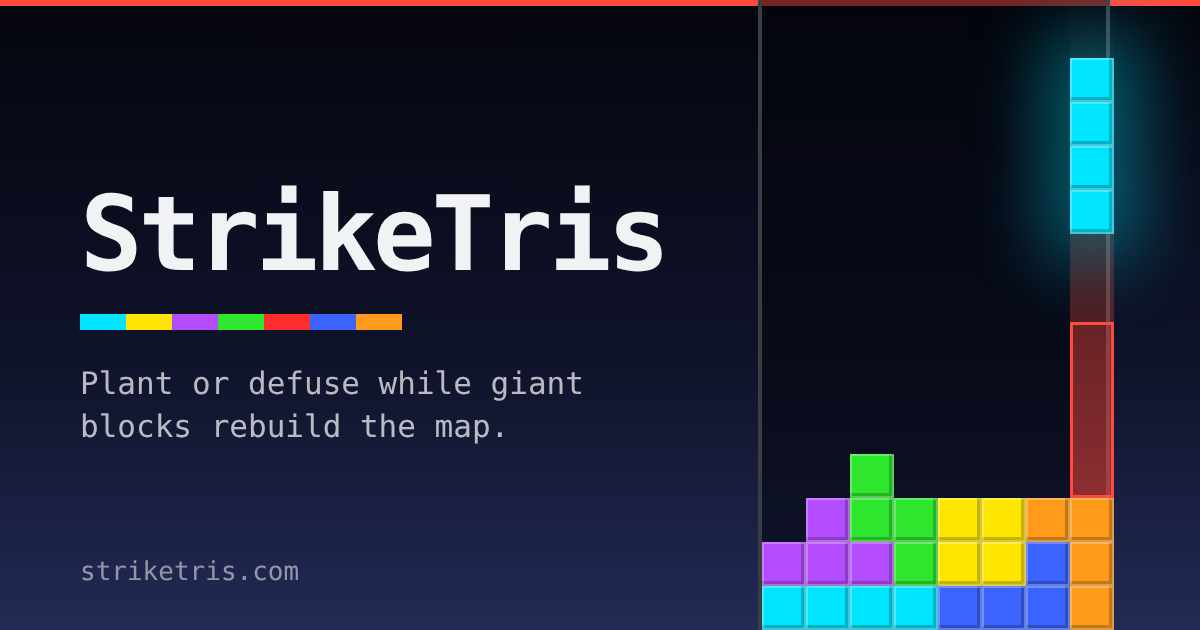
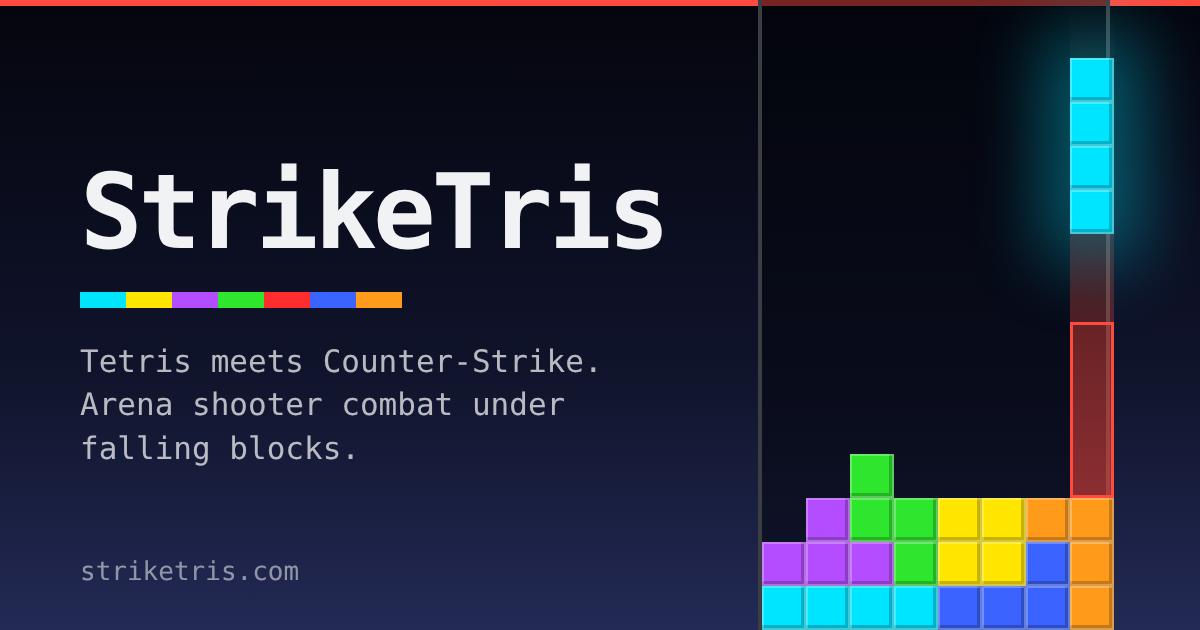
Reframe as Tetris meets Counter-Strike arena shooter
Lead metadata, README, DESIGN.md, style guide and share images with
arena shooter combat instead of bomb defusal. Rename the --bomb accent
token to --strike (and -hover/-deep). Game logic is unchanged.

Claude-Session: https://claude.ai/code/session_01Gttv1J3xgPbdhzgB7rQj9i

Changed region(s): [[0.0617, 0.2413, 0.555, 0.754]]

diff --git a/public/style.css b/public/style.css
@@ -9,7 +9,7 @@ body[data-mode="menu"] #hud { display: none; }
 #top { position: absolute; top: 14px; left: 50%; transform: translateX(-50%); text-align: center; background: var(--panel); padding: 6px 18px 8px; min-width: 150px; }
 #score { font-size: 13px; opacity: .85; }
 #timer { font-size: 30px; font-weight: 700; line-height: 1.15; }
-#timer.bomb { color: var(--bomb); }
+#timer.bomb { color: var(--strike); }
 #timer.freeze { color: var(--gold); }
 #round { font-size: 11px; opacity: .65; }
 
@@ -35,9 +35,9 @@ body[data-mode="menu"] #hud { display: none; }
 #hurt.on { animation: fade .4s linear; }
 @keyframes fade { from { opacity: 1; } to { opacity: 0; } }
 
-#walls { position: absolute; top: 14%; left: 50%; transform: translateX(-50%); background: var(--panel); color: var(--ink); border-top: 3px solid var(--bomb); padding: 6px 18px; font-size: 14px; font-weight: 700; }
-#walls.moving { background: var(--bomb); color: #fff; text-shadow: none; }
-#warn { position: absolute; top: 22%; left: 50%; transform: translateX(-50%); background: var(--bomb); color: #fff; padding: 8px 18px; font-size: 20px; font-weight: 700; animation: pulse .3s infinite alternate; text-shadow: none; }
+#walls { position: absolute; top: 14%; left: 50%; transform: translateX(-50%); background: var(--panel); color: var(--ink); border-top: 3px solid var(--strike); padding: 6px 18px; font-size: 14px; font-weight: 700; }
+#walls.moving { background: var(--strike); color: #fff; text-shadow: none; }
+#warn { position: absolute; top: 22%; left: 50%; transform: translateX(-50%); background: var(--strike); color: #fff; padding: 8px 18px; font-size: 20px; font-weight: 700; animation: pulse .3s infinite alternate; text-shadow: none; }
 @keyframes pulse { to { opacity: .55; } }
 #countdown { position: absolute; top: 30%; left: 0; right: 0; text-align: center; font-size: 96px; font-weight: 700; line-height: 1; color: var(--ink); text-shadow: 0 2px 8px rgba(0, 0, 0, .8); }
 #countdown.go { color: var(--go); animation: fade .7s linear forwards; }
@@ -84,15 +84,15 @@ body:not([data-view="first"]) #cross { display: none; }
 #lockNote { position: absolute; bottom: 70px; right: 14px; background: var(--panel); padding: 4px 8px; font-size: 12px; }
 
 #menu { position: fixed; inset: 0; display: flex; padding: 16px; background: var(--scrim); overflow: auto; }
-.card { margin: auto; width: min(620px, 100%); background: var(--panel-solid); padding: 28px; border-top: 6px solid var(--bomb); }
+.card { margin: auto; width: min(620px, 100%); background: var(--panel-solid); padding: 28px; border-top: 6px solid var(--strike); }
 .card h1 { margin: 0; font-size: 44px; letter-spacing: -1px; }
 .sub { margin: 4px 0 22px; opacity: .75; font-size: 14px; line-height: 1.45; }
 .opts { display: grid; grid-template-columns: repeat(auto-fit, minmax(120px, 1fr)); gap: 12px; margin-bottom: 18px; }
 .opts label { display: flex; flex-direction: column; gap: 5px; font-size: 12px; opacity: .92; }
 select { font: inherit; padding: 8px; background: var(--well-700); color: var(--ink); border: 1px solid var(--line); border-radius: var(--radius); min-width: 0; width: 100%; }
 .row { display: flex; gap: 10px; margin-bottom: 20px; }
-button { font: inherit; font-weight: 700; font-size: 16px; padding: 12px 28px; background: var(--bomb); color: #fff; border: 0; cursor: pointer; }
-button:hover { background: var(--bomb-hover); }
+button { font: inherit; font-weight: 700; font-size: 16px; padding: 12px 28px; background: var(--strike); color: #fff; border: 0; cursor: pointer; }
+button:hover { background: var(--strike-hover); }
 button.alt { background: var(--well-500); }
 button.alt:hover { background: var(--well-400); }
 button:focus-visible, select:focus-visible { outline: var(--focus); outline-offset: 2px; }
@@ -145,8 +145,8 @@ body[data-pad="steer"] #tSteer { background: var(--steer); color: #001418; text-
 /* Combat pad */
 body[data-ctl="play"]:not([data-pad]) #touch .tb[data-g="play"],
 body[data-ctl="play"][data-pad=""] #touch .tb[data-g="play"] { display: block; }
-#tFire { right: calc(var(--sr) + 20px); bottom: calc(var(--sb) + 24px); width: 96px !important; height: 96px !important; background: var(--bomb) !important; font-size: 16px !important; font-weight: 700; text-shadow: none !important; color: #fff !important; border: 0 !important; }
-#tFire.on { background: var(--bomb-hover) !important; }
+#tFire { right: calc(var(--sr) + 20px); bottom: calc(var(--sb) + 24px); width: 96px !important; height: 96px !important; background: var(--strike) !important; font-size: 16px !important; font-weight: 700; text-shadow: none !important; color: #fff !important; border: 0 !important; }
+#tFire.on { background: var(--strike-hover) !important; }
 #tJump { right: calc(var(--sr) + 128px); bottom: calc(var(--sb) + 36px); width: 72px !important; height: 72px !important; }
 #tReload { right: calc(var(--sr) + 20px); bottom: calc(var(--sb) + 132px); }
 #tUse { right: calc(var(--sr) + 88px); bottom: calc(var(--sb) + 132px); }
@@ -159,7 +159,7 @@ body[data-pad="steer"] #touch .tb[data-g="steer"] { display: block; border-color
 #tLeft { left: calc(var(--sl) + 14px); bottom: calc(var(--sb) + 84px); }
 #tDown { left: calc(var(--sl) + 76px); bottom: calc(var(--sb) + 20px); }
 #tRight { left: calc(var(--sl) + 138px); bottom: calc(var(--sb) + 84px); }
-#tDrop { right: calc(var(--sr) + 20px); bottom: calc(var(--sb) + 24px); width: 96px !important; height: 96px !important; background: var(--bomb) !important; border: 0 !important; color: #fff; text-shadow: none; font-weight: 700; }
+#tDrop { right: calc(var(--sr) + 20px); bottom: calc(var(--sb) + 24px); width: 96px !important; height: 96px !important; background: var(--strike) !important; border: 0 !important; color: #fff; text-shadow: none; font-weight: 700; }
 #tTumble { right: calc(var(--sr) + 128px); bottom: calc(var(--sb) + 36px); width: 72px !important; height: 72px !important; }
 #tRotL { right: calc(var(--sr) + 20px); bottom: calc(var(--sb) + 132px); font-size: 24px !important; }
 #tRotR { right: calc(var(--sr) + 88px); bottom: calc(var(--sb) + 132px); font-size: 24px !important; }

diff --git a/public/index.html b/public/index.html
@@ -14,8 +14,8 @@
 <meta name="mobile-web-app-capable" content="yes">
 <meta name="apple-mobile-web-app-capable" content="yes">
 <meta name="apple-mobile-web-app-status-bar-style" content="black-translucent">
-<title>StrikeTris: a bomb-defusal shooter with falling blocks</title>
-<meta name="description" content="Plant or defuse the bomb while giant Tetris-style blocks fall into the map and rebuild it mid-round. Play free in your browser with keyboard and mouse, or touch on your phone.">
+<title>StrikeTris: Tetris meets Counter-Strike arena shooter</title>
+<meta name="description" content="Tetris meets Counter-Strike. Fast team arena combat while giant Tetris blocks fall into the map, crush anyone underneath and rebuild cover mid-round. Play free in your browser with keyboard and mouse, or touch on your phone.">
 <meta name="theme-color" content="#14161a">
 <meta name="color-scheme" content="dark">
 <meta name="application-name" content="StrikeTris">
@@ -31,8 +31,8 @@
 <meta property="og:type" content="website">
 <meta property="og:site_name" content="StrikeTris">
 <meta property="og:url" content="https://striketris.com/">
-<meta property="og:title" content="StrikeTris: a bomb-defusal shooter with falling blocks">
-<meta property="og:description" content="Plant or defuse while giant blocks rebuild the map. Play free in your browser.">
+<meta property="og:title" content="StrikeTris: Tetris meets Counter-Strike arena shooter">
+<meta property="og:description" content="Tetris meets Counter-Strike. Arena shooter combat while giant blocks fall into the map. Play free in your browser.">
 <meta property="og:image" content="https://striketris.com/og-image.png">
 <meta property="og:image:type" content="image/png">
 <meta property="og:image:width" content="1200">
@@ -41,8 +41,8 @@
 <meta property="og:locale" content="en_US">
 
 <meta name="twitter:card" content="summary_large_image">
-<meta name="twitter:title" content="StrikeTris: a bomb-defusal shooter with falling blocks">
-<meta name="twitter:description" content="Plant or defuse while giant blocks rebuild the map. Play free in your browser.">
+<meta name="twitter:title" content="StrikeTris: Tetris meets Counter-Strike arena shooter">
+<meta name="twitter:description" content="Tetris meets Counter-Strike. Arena shooter combat while giant blocks fall into the map. Play free in your browser.">
 <meta name="twitter:image" content="https://striketris.com/twitter-card.png">
 <meta name="twitter:image:alt" content="StrikeTris logo beside a Tetris-style well. A cyan block falls toward a red landing marker on a stack of coloured blocks.">
 
@@ -51,9 +51,9 @@
   "@type": "VideoGame",
   "name": "StrikeTris",
   "url": "https://striketris.com/",
-  "description": "A bomb-defusal shooter where giant falling blocks rebuild the map mid-round.",
+  "description": "A Tetris meets Counter-Strike arena shooter where giant falling blocks crush enemies and rebuild the map mid-round.",
   "image": "https://striketris.com/og-image.png",
-  "genre": ["First-person shooter", "Puzzle"],
+  "genre": ["First-person shooter", "Arena shooter", "Puzzle"],
   "gamePlatform": "Web browser",
   "playMode": "SinglePlayer",
   "applicationCategory": "Game",
@@ -101,7 +101,7 @@
 <div id="menu">
   <div class="card">
     <h1>StrikeTris</h1>
-    <p class="sub">Plant or defuse while giant blocks rebuild the map. Grey box build.</p>
+    <p class="sub">Tetris meets Counter-Strike. Arena shooter combat while giant blocks fall into the map. Grey box build.</p>
     <div class="opts">
       <label>Mode <select id="optMode"><option value="play">Play</option><option value="god">Play, invulnerable</option><option value="spectate">Spectate and steer blocks</option></select></label>
       <label>Side <select id="optSide"><option value="attackers">Attackers</option><option value="defenders">Defenders</option></select></label>
@@ -115,7 +115,7 @@
     </div>
     <div class="keys">
       <div><kbd>WASD</kbd> Move</div><div><kbd>Mouse</kbd> Aim and fire</div>
-      <div><kbd>Space</kbd> Jump. Hold at a ledge to climb</div><div><kbd>E</kbd> Hold to plant or defuse</div>
+      <div><kbd>Space</kbd> Jump. Hold at a ledge to climb</div><div><kbd>E</kbd> Hold to interact</div>
       <div><kbd>Shift</kbd> Walk <kbd>Ctrl</kbd> Crouch</div><div><kbd>1</kbd> <kbd>2</kbd> <kbd>3</kbd> Weapons <kbd>Wheel</kbd> Cycle <kbd>R</kbd> Reload</div>
       <div><kbd>Tab</kbd> Scores <kbd>Esc</kbd> Menu</div><div><kbd>G</kbd> Call a new block <kbd>`</kbd> Debug</div>
       <div>Walk over items for the rocket launcher, ammo and health. Rocket jumps work</div>
@@ -123,7 +123,7 @@
     <p class="sub spec">Spectating (or after you die, press F): <kbd>WASD</kbd> fly, <kbd>Space</kbd> up, <kbd>C</kbd> down, <kbd>Shift</kbd> fast, <kbd>1</kbd>-<kbd>4</kbd> speed, <kbd>P</kbd> pause, <kbd>Q</kbd> <kbd>E</kbd> switch player.<br>Steering the falling block (spectating, after you die, or invulnerable): <kbd>Arrows</kbd> move, <kbd>Z</kbd> <kbd>X</kbd> rotate, <kbd>V</kbd> flip, <kbd>B</kbd> tumble, <kbd>Enter</kbd> hard drop.</p>
     <div class="touchkeys">
       <div><b>Left thumb</b> Move stick</div><div><b>Right thumb</b> Drag to look</div>
-      <div><b>Fire</b> Hold to shoot, drag on it to aim</div><div><b>Use</b> Hold to plant or defuse</div>
+      <div><b>Fire</b> Hold to shoot, drag on it to aim</div><div><b>Use</b> Hold to interact</div>
       <div><b>Steer</b> Opens the falling block pad when you can steer</div><div><b>II</b> Pause and menu</div>
     </div>
     <p class="sub tip"><a href="https://buy.stripe.com/fZu00b521d4p4gU0UcaAw05" target="_blank" rel="noopener">☕ Buy me a coffee ($5)</a></p>

diff --git a/public/design/guide.css b/public/design/guide.css
@@ -4,9 +4,10 @@ html { background: var(--well-900); color: var(--ink); font-family: var(--font);
 body { margin: 0; }
 code { background: var(--well-600); padding: 1px 5px; border: var(--rule) solid var(--line); font-size: var(--text-sm); }
 .top, main { width: min(960px, 100% - 2 * var(--space-4)); margin-inline: auto; }
-.top { padding: var(--space-7) 0 var(--space-5); border-top: var(--accent-bar) solid var(--bomb); margin-top: 0; }
+.top { padding: var(--space-7) 0 var(--space-5); border-top: var(--accent-bar) solid var(--strike); margin-top: 0; }
 .top h1 { margin: var(--space-5) 0 var(--space-2); font-size: var(--text-display); letter-spacing: -1px; line-height: var(--leading-tight); }
 .top p { margin: 0 0 var(--space-5); color: var(--ink-dim); max-width: 64ch; }
+.top p.tag { color: var(--ink); font-size: var(--text-lg); font-weight: 700; margin-bottom: var(--space-3); }
 .strip { display: flex; }
 .strip i { width: 36px; height: 12px; }
 section { padding: var(--space-6) 0; border-top: var(--rule) solid var(--line); }
@@ -28,15 +29,15 @@ h2 { margin: 0 0 var(--space-3); font-size: var(--text-xl); }
 .rules li { margin-bottom: var(--space-2); }
 
 /* Component samples reuse the game's recipes */
-.card { width: min(560px, 100%); background: var(--panel-solid); padding: var(--space-5); border-top: var(--accent-bar) solid var(--bomb); }
+.card { width: min(560px, 100%); background: var(--panel-solid); padding: var(--space-5); border-top: var(--accent-bar) solid var(--strike); }
 .card h3 { margin: 0; font-size: var(--text-display); letter-spacing: -1px; line-height: var(--leading-tight); }
 .sub { margin: var(--space-1) 0 var(--space-5); color: var(--ink-dim); }
 .opts { display: grid; grid-template-columns: repeat(auto-fit, minmax(120px, 1fr)); gap: var(--space-3); margin-bottom: var(--space-4); }
 .opts label { display: flex; flex-direction: column; gap: 5px; font-size: var(--text-sm); }
 select { font: inherit; padding: var(--space-2); background: var(--well-700); color: var(--ink); border: var(--rule) solid var(--line); border-radius: var(--radius); width: 100%; }
 .row { display: flex; gap: 10px; margin-bottom: var(--space-4); }
-button { font: inherit; font-weight: 700; font-size: var(--text-lg); padding: var(--space-3) 28px; background: var(--bomb); color: #fff; border: 0; border-radius: var(--radius); cursor: pointer; }
-button:hover { background: var(--bomb-hover); }
+button { font: inherit; font-weight: 700; font-size: var(--text-lg); padding: var(--space-3) 28px; background: var(--strike); color: #fff; border: 0; border-radius: var(--radius); cursor: pointer; }
+button:hover { background: var(--strike-hover); }
 button.alt { background: var(--well-500); }
 button.alt:hover { background: var(--well-400); }
 button:focus-visible, select:focus-visible { outline: var(--focus); outline-offset: 2px; }
@@ -48,7 +49,7 @@ kbd { font: inherit; background: var(--well-600); padding: 1px 5px; border: var(
 .small { font-size: var(--text-sm); opacity: .85; }
 .timer { font-size: var(--text-3xl); font-weight: 700; line-height: var(--leading-tight); }
 .tiny { font-size: var(--text-xs); opacity: .65; }
-.warn { background: var(--bomb); color: #fff; font-size: var(--text-xl); font-weight: 700; text-shadow: none; }
+.warn { background: var(--strike); color: #fff; font-size: var(--text-xl); font-weight: 700; text-shadow: none; }
 .ctrl { display: flex; gap: var(--space-3); align-items: baseline; border-bottom: 3px solid var(--steer); font-size: var(--text-sm); }
 .ctrl b { color: var(--steer); }
 .feed { font-size: 13px; }

diff --git a/public/style-guide.html b/public/style-guide.html
@@ -14,6 +14,7 @@
 <body>
 <header class="top">
   <h1>StrikeTris style guide</h1>
+  <p class="tag">Tetris meets Counter-Strike. Arena shooter combat while giant blocks fall into the map.</p>
   <p>Tokens live in <code>design/tokens.css</code>. Rules live in <code>DESIGN.md</code>. The game UI uses only what is on this page.</p>
   <div class="strip" aria-hidden="true"><i style="background:var(--block-i)"></i><i style="background:var(--block-o)"></i><i style="background:var(--block-t)"></i><i style="background:var(--block-s)"></i><i style="background:var(--block-z)"></i><i style="background:var(--block-j)"></i><i style="background:var(--block-l)"></i></div>
 </header>
@@ -35,7 +36,7 @@
   <h2>Signals</h2>
   <p class="note">One job each. Nothing else uses these colours.</p>
   <div class="swatches">
-    <div><i style="background:var(--bomb)"></i><b>--bomb</b><span>#ff4a3d primary action, bomb timer, block warning</span></div>
+    <div><i style="background:var(--strike)"></i><b>--strike</b><span>#ff4a3d primary action, timer alert, block warning</span></div>
     <div><i style="background:var(--gold)"></i><b>--gold</b><span>#ffd76a selection, freeze timer, you</span></div>
     <div><i style="background:var(--go)"></i><b>--go</b><span>#5dff7d health, crosshair</span></div>
     <div><i style="background:var(--steer)"></i><b>--steer</b><span>#00e5ff block steering</span></div>
@@ -67,7 +68,7 @@
     <dt>Banner 26 / 700</dt><dd style="font-size:var(--text-2xl);font-weight:700">Attackers win the round</dd>
     <dt>Warning 20 / 700</dt><dd style="font-size:var(--text-xl);font-weight:700">Move! Block incoming</dd>
     <dt>Button 16 / 700</dt><dd style="font-size:var(--text-lg);font-weight:700">Play</dd>
-    <dt>Body 14 / 400</dt><dd style="font-size:var(--text-md)">Plant or defuse while giant blocks rebuild the map.</dd>
+    <dt>Body 14 / 400</dt><dd style="font-size:var(--text-md)">Tetris meets Counter-Strike arena combat.</dd>
     <dt>Label 12 / 400</dt><dd style="font-size:var(--text-sm)">Team size</dd>
     <dt>Caption 11 / 400</dt><dd style="font-size:var(--text-xs)">Round 1</dd>
   </dl>
@@ -87,13 +88,13 @@
   <div class="demo scene">
     <div class="card">
       <h3>StrikeTris</h3>
-      <p class="sub">Plant or defuse while giant blocks rebuild the map.</p>
+      <p class="sub">Tetris meets Counter-Strike. Arena shooter combat while giant blocks fall into the map.</p>
       <div class="opts">
         <label>Mode <select><option>Play</option><option>Play, invulnerable</option></select></label>
         <label>Side <select><option>Attackers</option><option>Defenders</option></select></label>
       </div>
       <div class="row"><button>Play</button><button class="alt">Resume</button></div>
-      <div class="keys"><div><kbd>WASD</kbd> Move</div><div><kbd>E</kbd> Hold to plant or defuse</div></div>
+      <div class="keys"><div><kbd>WASD</kbd> Move</div><div><kbd>E</kbd> Hold to interact</div></div>
     </div>
   </div>
   <div class="demo scene hud">
@@ -108,7 +109,7 @@
   <h2>Rules</h2>
   <ul class="rules">
     <li>Use a token, never a raw hex, in CSS. JavaScript block colours come from <code>SHAPE_TINT</code>.</li>
-    <li>One bomb red element per view.</li>
+    <li>One strike red element per view.</li>
     <li>HUD text sits on a panel, never directly on the 3D view.</li>
     <li>Every control has a visible focus ring.</li>
     <li>Motion answers game state only.</li>

diff --git a/tools/share/share.html b/tools/share/share.html
@@ -9,7 +9,7 @@
   html, body { margin: 0; }
   body { width: 1200px; height: var(--h, 630px); position: relative; overflow: hidden; font-family: "DejaVu Sans Mono", var(--font); color: var(--ink);
     background: linear-gradient(180deg, var(--sky-900) 0%, var(--sky-700) 60%, var(--sky-500) 100%); }
-  .bar { position: absolute; top: 0; left: 0; right: 0; height: var(--accent-bar); background: var(--bomb); }
+  .bar { position: absolute; top: 0; left: 0; right: 0; height: var(--accent-bar); background: var(--strike); }
   .copy { position: absolute; left: 80px; top: 0; bottom: 0; width: 600px; display: flex; flex-direction: column; justify-content: center; }
   h1 { margin: 0; font-size: 104px; line-height: 1; letter-spacing: -4px; font-weight: 700; }
   .strip { display: flex; margin: 28px 0 32px; }
@@ -20,7 +20,7 @@
   .well { position: absolute; right: 90px; bottom: 0; width: 352px; height: 100%; border-left: 4px solid var(--well-500); border-right: 4px solid var(--well-500); background: rgba(4, 5, 13, .55); }
   .c { position: absolute; width: 44px; height: 44px; box-shadow: inset 0 0 0 2px rgba(255,255,255,.28), inset -5px -5px 0 rgba(0,0,0,.22); }
   .beam { position: absolute; width: 44px; top: 0; background: linear-gradient(180deg, rgba(255,74,61,0), rgba(255,74,61,.45)); }
-  .ghost { position: absolute; width: 44px; border: 3px solid var(--bomb); background: rgba(255,74,61,.14); }
+  .ghost { position: absolute; width: 44px; border: 3px solid var(--strike); background: rgba(255,74,61,.14); }
   .glow { position: absolute; width: 44px; box-shadow: 0 0 70px 26px rgba(0,229,255,.38); }
 </style>
 </head>
@@ -29,7 +29,7 @@
 <div class="copy">
   <h1>StrikeTris</h1>
   <div class="strip"><i style="background:var(--block-i)"></i><i style="background:var(--block-o)"></i><i style="background:var(--block-t)"></i><i style="background:var(--block-s)"></i><i style="background:var(--block-z)"></i><i style="background:var(--block-j)"></i><i style="background:var(--block-l)"></i></div>
-  <p>Plant or defuse while giant blocks rebuild the map.</p>
+  <p>Tetris meets Counter-Strike. Arena shooter combat under falling blocks.</p>
 </div>
 <div class="url">striketris.com</div>
 <div class="well" id="well"></div>

diff --git a/public/design/tokens.css b/public/design/tokens.css
@@ -21,9 +21,9 @@
   --ink-faint: rgba(241, 242, 243, .55);
 
   /* Signals: each colour means one thing */
-  --bomb: #ff4a3d;            /* primary action, bomb timer, incoming block warning */
-  --bomb-hover: #ff6459;
-  --bomb-deep: #7a1f1a;       /* site labels on the map */
+  --strike: #ff4a3d;            /* primary action, round timer alert, incoming block warning */
+  --strike-hover: #ff6459;
+  --strike-deep: #7a1f1a;       /* objective labels on the map */
   --gold: #ffd76a;            /* selection, freeze timer, you, progress */
   --go: #5dff7d;              /* health, crosshair */
   --steer: #00e5ff;           /* block steering mode */

diff --git a/DESIGN.md b/DESIGN.md
@@ -4,7 +4,9 @@ Source of truth: `public/design/tokens.css`. Live reference: `/style-guide.html`
 
 ## Direction
 
-StrikeTris is a prototype of a bomb-defusal shooter with falling Tetris blocks. The look comes from that: a dark well, a shifting arena in bright base colours with neon blocks, and seven saturated block colours. UI is plain, square and monospaced, like a debug overlay that grew up.
+StrikeTris is Tetris meets Counter-Strike: a team arena shooter where giant Tetris blocks fall into the map, crush anyone underneath and rebuild cover mid-round. The look comes from both halves. Tetris gives the dark well, the seven saturated block colours and a shifting neon arena. Counter-Strike gives the tactical HUD: crisp, flat and readable at a glance. UI is plain, square and monospaced, like a debug overlay that grew up.
+
+Lead with the combat. Gunfights, movement, steering blocks and line clears are the story. The round objective (plant and defuse) is one mode detail and does not appear in the title, tagline, share images or primary buttons.
 
 ## Principles
 
@@ -12,7 +14,7 @@ StrikeTris is a prototype of a bomb-defusal shooter with falling Tetris blocks. 
 2. **The world and blocks are the rainbow.** The seven tetromino colours appear on blocks, the next-block preview and the brand strip. The arena uses bright base colours (`BASE_COLOURS`) and neon colours (`NEON_COLOURS`) in `public/src/arenaFx.js`. Never on buttons, panels or text.
 3. **Square everything.** Radius is 0. Panels are flat translucent slabs.
 4. **Legible over a moving scene.** HUD text sits on `--panel` and carries a soft text shadow. Never place text directly on the 3D view.
-5. **One loud thing per screen.** The bomb red is the single accent: the main button, the bomb timer, the block warning.
+5. **One loud thing per screen.** Strike red is the single accent: the main button, the alert timer, the block warning. It is the colour of a hit, which fits both a shot and a falling block.
 
 ## Colour
 
@@ -23,7 +25,7 @@ StrikeTris is a prototype of a bomb-defusal shooter with falling Tetris blocks. 
 | `--well-700` | `#2c2f33` | Inputs |
 | `--well-500` | `#3a3e43` | Secondary buttons |
 | `--ink` | `#f1f2f3` | Text |
-| `--bomb` | `#ff4a3d` | Primary action, bomb timer, block warning |
+| `--strike` | `#ff4a3d` | Primary action, timer alert, block warning |
 | `--gold` | `#ffd76a` | Selection, freeze timer, your own row, progress |
 | `--go` | `#5dff7d` | Health, crosshair |
 | `--steer` | `#00e5ff` | Block steering mode bar |
@@ -32,7 +34,7 @@ StrikeTris is a prototype of a bomb-defusal shooter with falling Tetris blocks. 
 
 Blocks: I `#00e5ff`, O `#ffe600`, T `#b44dff`, S `#2ee62e`, Z `#ff2d2d`, J `#3a63ff`, L `#ff9a1a`. These must match `SHAPE_TINT` in `public/src/render.js`.
 
-Contrast: `--ink` on `--panel` and on `--well-900` passes WCAG AA at all sizes. `--bomb` carries white text at 16px bold (large text, AA). Do not put `--gold` or `--go` on `--concrete`.
+Contrast: `--ink` on `--panel` and on `--well-900` passes WCAG AA at all sizes. `--strike` carries white text at 16px bold (large text, AA). Do not put `--gold` or `--go` on `--concrete`.
 
 ## Type
 
@@ -53,11 +55,11 @@ Body line height `--leading-body` (1.45). Keep copy lines under 80 characters. S
 
 ## Space and shape
 
-4px base: 4, 8, 12, 16, 24, 32, 48 (`--space-1` to `--space-7`). HUD sits 14px from the screen edge (`--hud-edge`). Menu card has a 6px top bar in `--bomb`. Borders are 1px `--line`.
+4px base: 4, 8, 12, 16, 24, 32, 48 (`--space-1` to `--space-7`). HUD sits 14px from the screen edge (`--hud-edge`). Menu card has a 6px top bar in `--strike`. Borders are 1px `--line`.
 
 ## Components
 
-- **Primary button.** `--bomb` fill, white 16px bold, 12px 28px padding, hover `--bomb-hover`. One per view.
+- **Primary button.** `--strike` fill, white 16px bold, 12px 28px padding, hover `--strike-hover`. One per view.
 - **Secondary button.** `--well-500` fill, same shape.
 - **Select.** `--well-700` fill, 1px `--line`, 8px padding.
 - **Key cap (`kbd`).** `--well-600` fill, 1px `--line`, 1px 5px padding.
@@ -70,8 +72,10 @@ Motion answers game state in the HUD: hit marker (0.2s), damage vignette (0.4s),
 
 ## Copy
 
-Plain verbs, sentence case. Name actions by what happens: "Play", "Resume", "Plant", "Defuse". The warning says what to do: "Move! Block incoming".
+Plain verbs, sentence case. Name actions by what happens: "Play", "Resume", "Steer block". The warning says what to do: "Move! Block incoming".
+
+Tagline: "Tetris meets Counter-Strike. Arena shooter combat while giant blocks fall into the map." Use it as written, or shorten to "Tetris meets Counter-Strike". Describe the game as an arena shooter. Do not describe it as a bomb-defusal game. The interact key is "Hold to interact"; name the bomb only in the on-screen prompt that appears when you can plant or defuse.
 
 ## Share images
 
-`tools/share/share.html` is the source for `public/og-image.png` (1200x630) and `public/twitter-card.png` (1200x600). Rebuild with `npm run share` after changing the title, tagline or tokens. Composition: dark well, seven-colour brand strip, a falling block with its red ghost and beam. Keep important content inside the central 1000x500.
+`tools/share/share.html` is the source for `public/og-image.png` (1200x630) and `public/twitter-card.png` (1200x600). Rebuild with `npm run share` after changing the title, tagline or tokens. Composition: dark well, seven-colour brand strip, the "Tetris meets Counter-Strike" tagline, a falling block with its red ghost and beam. Keep important content inside the central 1000x500.

diff --git a/README.md b/README.md
@@ -1,6 +1,6 @@
 # StrikeTris
 
-A tactical shooter where giant falling blocks rebuild the map mid-round. This is the grey box build: untextured, single-player against bots, made to test whether the idea is fun. Target domain: striketris.com.
+Tetris meets Counter-Strike. A team arena shooter where giant Tetris blocks fall into the map, crush anyone underneath and rebuild cover mid-round. This is the grey box build: untextured, single-player against bots, made to test whether the idea is fun. Target domain: striketris.com.
 
 ## Run it
 
@@ -21,7 +21,7 @@ Touch devices get on-screen controls automatically (add `?touch=1` to force them
 
 ## The rules being tested
 
-- **Rounds:** bomb defuse. Attackers plant at A or B, defenders stop them. First to 8.
+- **Rounds:** team arena combat, first to 8. Attackers and defenders fight over the map while blocks fall. The round objective is a plant-and-defuse bomb at sites A and B.
 - **Spectate:** pick "Spectate only" in the menu, or press F after you die, for a free-fly camera. 1-4 set speed, P pauses, G drops a block. "Play, invulnerable" lets you walk the map without dying.
 - **Blocks:** classic Tetris colours (I cyan, O yellow, T purple, S green, Z red, J blue, L orange).
 - **Blocks:** a tetromino drops every few seconds. A red ghost and sky beam show where, about 3 seconds ahead. It kills anything underneath.
